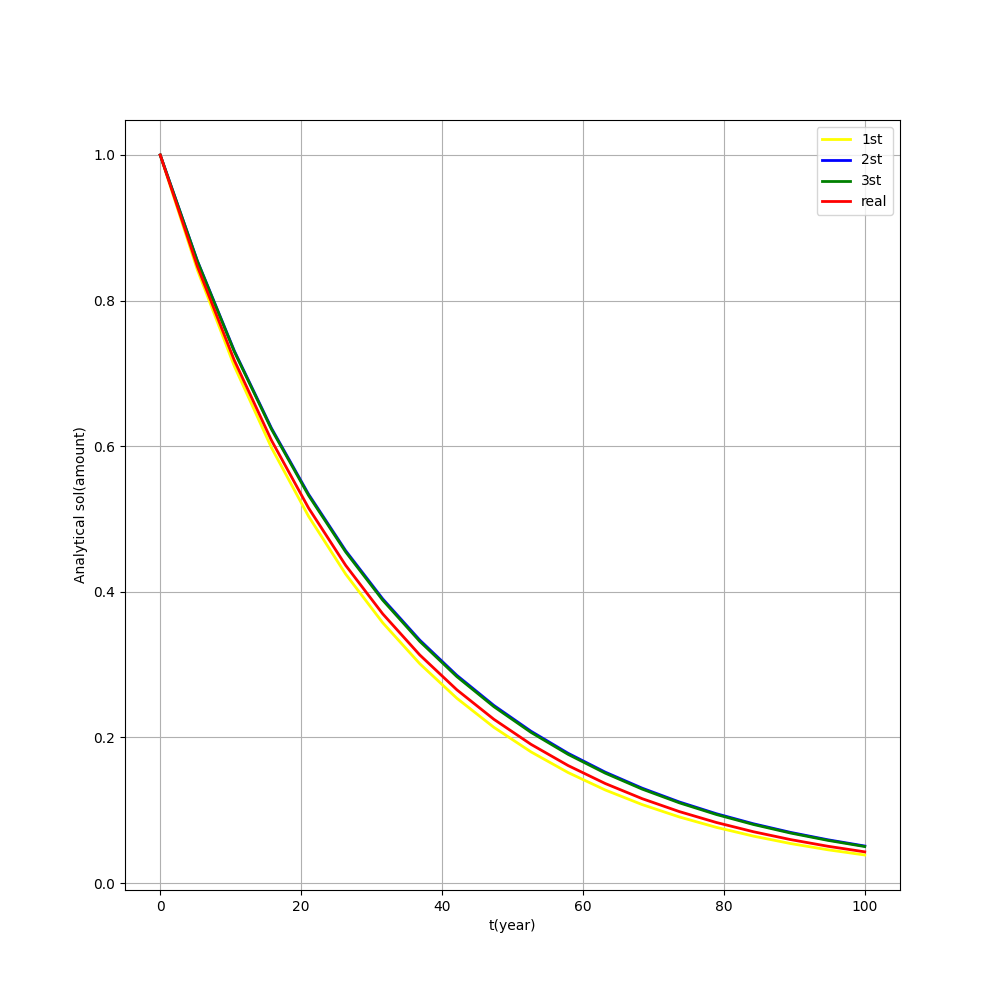
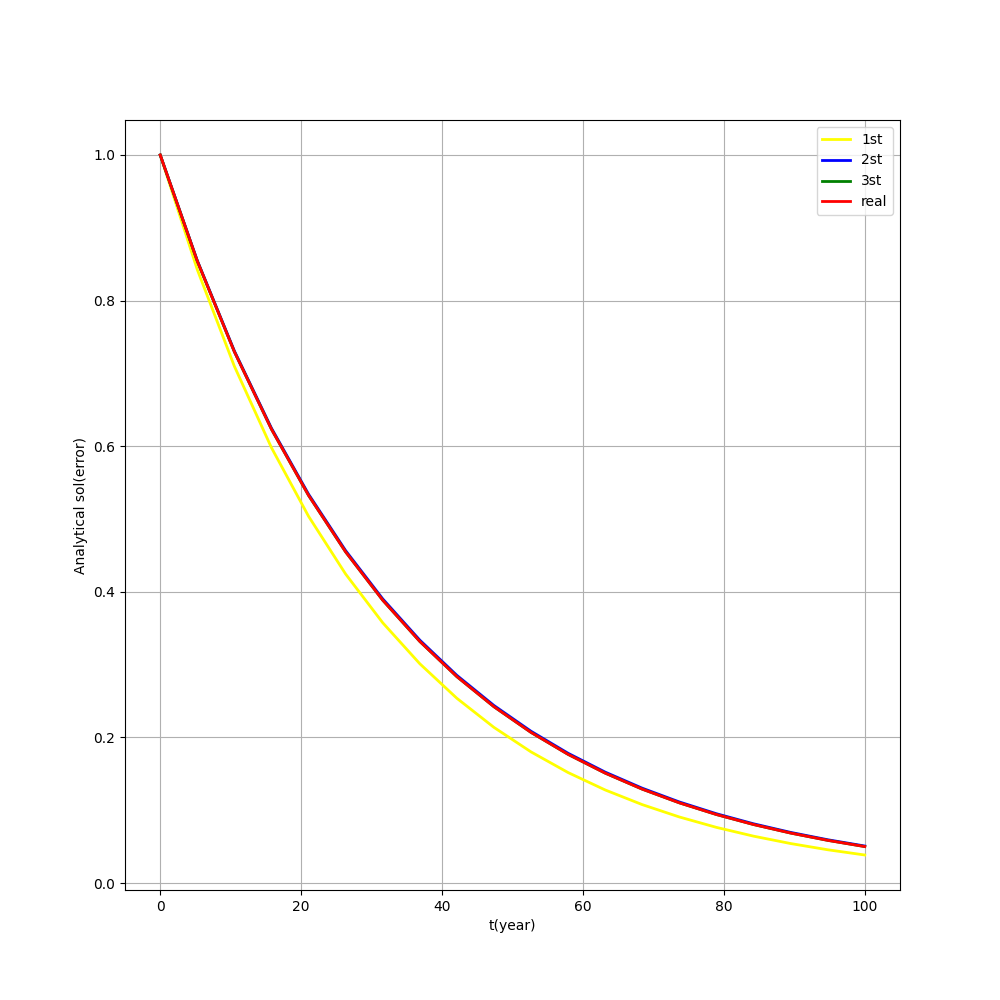
lab 4 updated

diff --git a/lab 4/q3.py b/lab 4/q3.py
@@ -7,12 +7,12 @@ from sympy import symbols, diff
 import sympy
 
 
-dt = 10**9
+dt = 5
 
 x0 = 1
 
 TLOW = 0
-THIGH = 20*10**(9)
+THIGH = 20*5
 
 DT = int((1 / dt) *(THIGH - TLOW))
 
@@ -20,11 +20,11 @@ DT = int((1 / dt) *(THIGH - TLOW))
 
 #here f is the dx/dt function
 X, T = symbols('X T')
-f = -(sympy.ln(2)/(4.5*10**9))*X
+f = -(sympy.ln(2)/(22))*X
 
 def returns_dydt(x, t):
     ############################################################################################################################
-    dxdt = -(math.log(2)/(4.5*10**9))*x
+    dxdt = -(math.log(2)/(22))*x
     return dxdt
 
 df = diff(f, X)
@@ -105,15 +105,15 @@ print(ans2)
 #plotting
 fig = plt.figure(figsize=(10, 10))
 
-# plt.plot(t1, ans1, color='yellow', label='1st', linewidth=2)
-# plt.plot(t1, ans2, color='blue', label='2st', linewidth=2)
-# plt.plot(t1, ans3, color='green', label='3st', linewidth=2)
-# plt.plot(t, y1, color='red', label='real',linewidth=2)
+plt.plot(t1, ans1, color='yellow', label='1st', linewidth=2)
+plt.plot(t1, ans2, color='blue', label='2st', linewidth=2)
+plt.plot(t1, ans3, color='green', label='3st', linewidth=2)
+plt.plot(t1, ans3, color='red', label='real',linewidth=2)
 # plt.plot(t1, xt, color='red', label='real',linewidth=2)
 
-plt.plot(t1, errr1, color='yellow', label='1st', linewidth=2)
-plt.plot(t1, errr2, color='blue', label='2st', linewidth=2)
-plt.plot(t1, errr3, color='green', label='3st', linewidth=2)
+# plt.plot(t1, errr1, color='yellow', label='1st', linewidth=2)
+# plt.plot(t1, errr2, color='blue', label='2st', linewidth=2)
+# plt.plot(t1, errr3, color='green', label='3st', linewidth=2)
 
 
 
@@ -123,5 +123,5 @@ plt.xlabel('t(year)')
 plt.ylabel('Analytical sol(error)')
 plt.legend()
 plt.grid()
-plt.savefig('q3arror.png')
+plt.savefig('q3c.png')
 plt.show()

diff --git a/lab 4/q1.py b/lab 4/q1.py
@@ -7,7 +7,7 @@ from sympy import symbols, diff
 import sympy
 
 
-dt = 0.01
+dt = 10**
 
 x0 = 1
 
